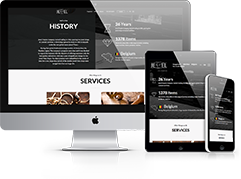
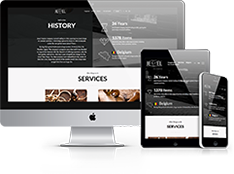
Исправил адаптив для блока portfolio

diff --git a/src/blocks/portfolio/portfolio.scss b/src/blocks/portfolio/portfolio.scss
@@ -1,5 +1,7 @@
 .portfolio {
-
+	position: relative;
+	display: block;
+	max-width: 700px;
 	font-size: 0;
 
 	&__list {
@@ -12,6 +14,10 @@
 		display: inline-block;
 		vertical-align: top;
 		margin-bottom: 20px;
+
+		@include respond-to('medium') {
+			width: 100%;
+		}
 	}
 
 	&__item:nth-child(odd) {
@@ -27,8 +33,11 @@
 		box-shadow: inset 0 0 0 5px #FFF;
 
 		@include respond-to('medium') {
-			width: 230px;
-			height: 230px;
+			width: 100%;
+			height: auto;
+			padding-top: 30px;
+			padding-bottom: 10px;
+			box-shadow: none;
 		}
 	}
 
@@ -93,10 +102,23 @@
 		cursor: pointer;
 		opacity: 0;
 		transition: all .8s ease-in-out;
+
+		@include respond-to('medium') {
+			display: none;
+		}
 	}
 
 	&__wrapper:hover &__zoom {
 		opacity: 1;
+	}
+
+	&__normal {
+		padding-left: 15px;
+		padding-right: 15px;
+
+		img {
+			max-width: 100%;
+		}
 	}
 
 	&__blur {
@@ -105,8 +127,18 @@
 		height: 100%;
 		top: 0;
 		left: 0;
+		padding-left: 15px;
+		padding-right: 15px;
 		opacity: 0;
 		transition: all .8s ease-in-out;
+
+		img {
+			max-width: 100%;
+		}
+
+		@include respond-to('medium') {
+			display: none;
+		}
 	}
 
 	&__wrapper:hover &__blur {
@@ -118,10 +150,10 @@
 		padding-left: 30px;
 		padding-right: 30px;
 		text-align: center;
-		line-height: 26px;
 		transition: all .8s ease-in-out;
 
 		a {
+			line-height: 26px;
 			color: $color-primary;
 			text-decoration: none;
 			transition: all .8s ease-in-out;

diff --git a/src/blocks/panel/panel.scss b/src/blocks/panel/panel.scss
@@ -5,7 +5,7 @@
 	top: 0;
 	left: 0;
 	margin-top: -150%;
-	padding-right: 62px;
+	padding-right: 330px;
 	background: #FFF;
 	box-shadow: 0px 4px 7px rgba(0,0,0,0.6);
 	overflow-y: auto;
@@ -16,11 +16,7 @@
 	-o-transition: all .8s ease-in-out;
 	transition: all .8s ease-in-out;
 
-	@include respond-to('ultrahuge') {
-		padding-right: 290px;
-	}
-
-	@include respond-to('huge') {
+	@include respond-to('monsterhuge') {
 		padding-right: 62px;
 	}
 

diff --git a/src/blocks/container/container.scss b/src/blocks/container/container.scss
@@ -4,14 +4,10 @@
 	position: relative;
 	min-width: 320px;
 	height: 100%;
-	padding-right: 62px;
+	padding-right: 330px;
 	overflow: hidden;
 
-	@include respond-to('ultrahuge') {
-		padding-right: 290px;
-	}
-
-	@include respond-to('huge') {
+	@include respond-to('monsterhuge') {
 		padding-right: 62px;
 	}
 

diff --git a/src/sass/base/variables.scss b/src/sass/base/variables.scss
@@ -22,7 +22,8 @@ $breakpoints: (
 	'intermediary': (max-width: 960px),
 	'increasead': (max-width: 1040px),
 	'huge': (max-width: 1260px),
-	'ultrahuge': (max-width: 1400px)
+	'ultrahuge': (max-width: 1400px),
+	'monsterhuge': (max-width: 2000px)
 );
 
 // Grid
